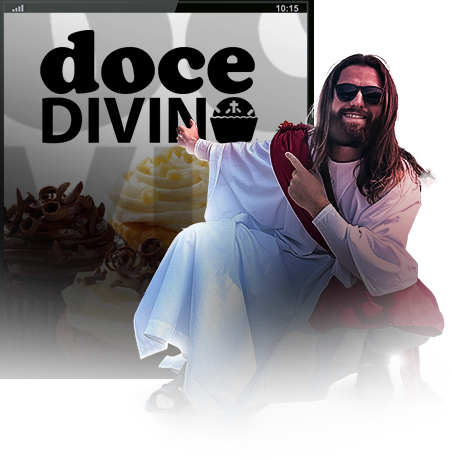
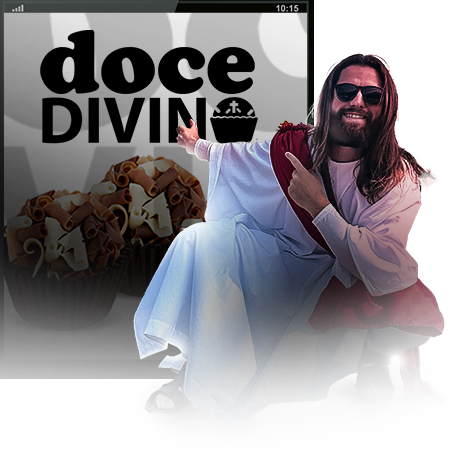
fix errors and add checkout price and swipe image

Changed region(s): [[0.0, 0.3043, 0.4646, 0.6696], [0.0, 0.6087, 0.031, 0.6391]]

diff --git a/index.html b/index.html
@@ -32,7 +32,7 @@
             <h4>COMPRA SEGURA</h4>
           </div>
 
-          <h1>Descubra como faço <span class="destaque">mais de 10.000,00 todos os meses</span> vendendo doces</h1>
+          <h1>Descubra como faço <span class="destaque">mais de 10.000,00 todos os meses</span> vendendo brigadeiros</h1>
           <p>
             Se essa era a resposta que você estava esperando, o seu milagre está aqui:
           </p>
@@ -140,7 +140,7 @@
     <div class="container container-column">
       <h3>O que você vai aprender?</h3>
       <p>
-        Vou te ensinar o passo a passo para vender doces gourmet de alto
+        Vou te ensinar o passo a passo para vender doces de alto
         valor, como brigadeiros diferenciados que encantam qualquer
         cliente. Não importa se você nunca vendeu nada antes, você terá um
         plano simples e prático para começar.
@@ -149,8 +149,8 @@
     <div class="container container-cards">
       <div class="card card-with-image">
         <img src="https://cdn.pixabay.com/photo/2017/04/12/17/19/muffins-2225091_1280.jpg" alt="">
-        <h3>Comece a vender doces.</h3>
-        <p>Aprenda como começar a ganhar dinheiro em casa com doces caseiros</p>
+        <h3>Comece a vender brigadeiros.</h3>
+        <p>Aprenda como começar a ganhar dinheiro em casa com brigadeiros caseiros</p>
       </div>
       <div class="card card card-with-image">
         <img src="https://cdn.pixabay.com/photo/2020/05/17/10/06/pencil-5180864_1280.jpg" alt="">
@@ -199,9 +199,9 @@
     <div class="container container-column" style="border: 1px solid #333; padding: 10px; margin-bottom: 40px">
       <center>
         <p>
-          Não basta vender doces, você precisa se destacar, e é exatamente
+          Não basta vender brigadeiros, você precisa se destacar, e é exatamente
           isso que vou te ensinar. Imagine seus clientes fazendo fila para
-          comprar seus doces gourmet, enquanto você
+          comprar seus brigadeiros, enquanto você
           transforma cada venda em um passo para seus sonhos.
         </p>
       </center>
@@ -220,7 +220,7 @@
     <div class="container container-column">
       <h2>
         A decisão que <span class="destaque"> mudou minha vida</span> começou com um simples brigadeiro.
-        Agora, é sua vez de descobrir <span class="destaque">como esses doces podem abrir portas</span> que
+        Agora, é sua vez de descobrir <span class="destaque">como esses brigadeiros podem abrir portas</span> que
         você nem imaginava.
       </h2>
     </div>
@@ -239,14 +239,19 @@
           <h3>Ta pronto para começar?</h3>
           <p>
             Disponibilizei todo o material para você aprender o passo a passo
-            para vender doces gourmet de alto valor, como brigadeiros
-            diferenciados e cupcakes que encantam qualquer cliente.
+            para vender brigadeiros
+            diferenciados que encantam qualquer cliente.
           </p>
+          <br> <br>
+          <p>de R$<s>499,99</s> por apenas</p>
+          <h1 style="scale: 2;margin-top: 15px;margin-bottom: 15px;">R$97</h1>
+          <p>ou 12x de R$9,70</p>
+          
         </center>
 
         <div class="btn-action" variant="primary">
-          <a href="https://instagram.com/jesusdosdocesbc" target="_blank">
-            quero saber mais
+          <a href="https://instagram.com/jesusdosbrigadeirosbc" target="_blank">
+            Garantir minha vaga!
           </a>
         </div>
         <img src="img/bandeiras.png" alt="">
@@ -265,7 +270,7 @@
           </button>
           <p>
             O doce divino é o método que vai te ensinar o passo a passo de
-            como fazer e vender doces caseiros na rua.
+            como fazer e vender brigadeiros caseiros na rua.
           </p>
         </div>
 
@@ -299,7 +304,7 @@
           </button>
           <p>
             Siga a nossa página no instagram para ficar por dentro de todos os nossos produtos. <a
-              href="https://instagram.com/jesusdosdocesbc" target="_blank">@jesusdosdocesbc</a </p>
+              href="https://instagram.com/jesusdosdocesbc" target="_blank">@jesusdosdocesbc</a> </p>
         </div>
       </div>
     </div>

diff --git a/style.css b/style.css
@@ -188,7 +188,7 @@ h6 {
             padding-left: 20px;
 
             gap: 10px;
-            padding: 10px 0;
+            padding: 10px 5px;
 
             &:not(:last-child) {
                 border-bottom: 1px solid #ccc;
@@ -285,6 +285,7 @@ img {
 
 .section.time-line {
     padding: 20px;
+    min-height: none !important;
 
     & .container {
 
@@ -294,9 +295,14 @@ img {
             text-align: left;
             line-height: 2;
             padding: 10px;
+            border: none !important;
 
             & h4 {
-                font-size: 1.2rem;
+                font-size: 1.1rem;
+                letter-spacing: 3px;
+                text-align: center;
+                line-height: normal;
+                font-style: italic;
                 color: #333;
                 font-weight: 400;
                 margin: 20px 20px 80px 20px;
@@ -348,6 +354,7 @@ img {
     background: var(--blue);
     color: #fff;
     padding-top: 100px;
+    min-height: auto !important;
 
     & .container-cards {
         display: flex;
